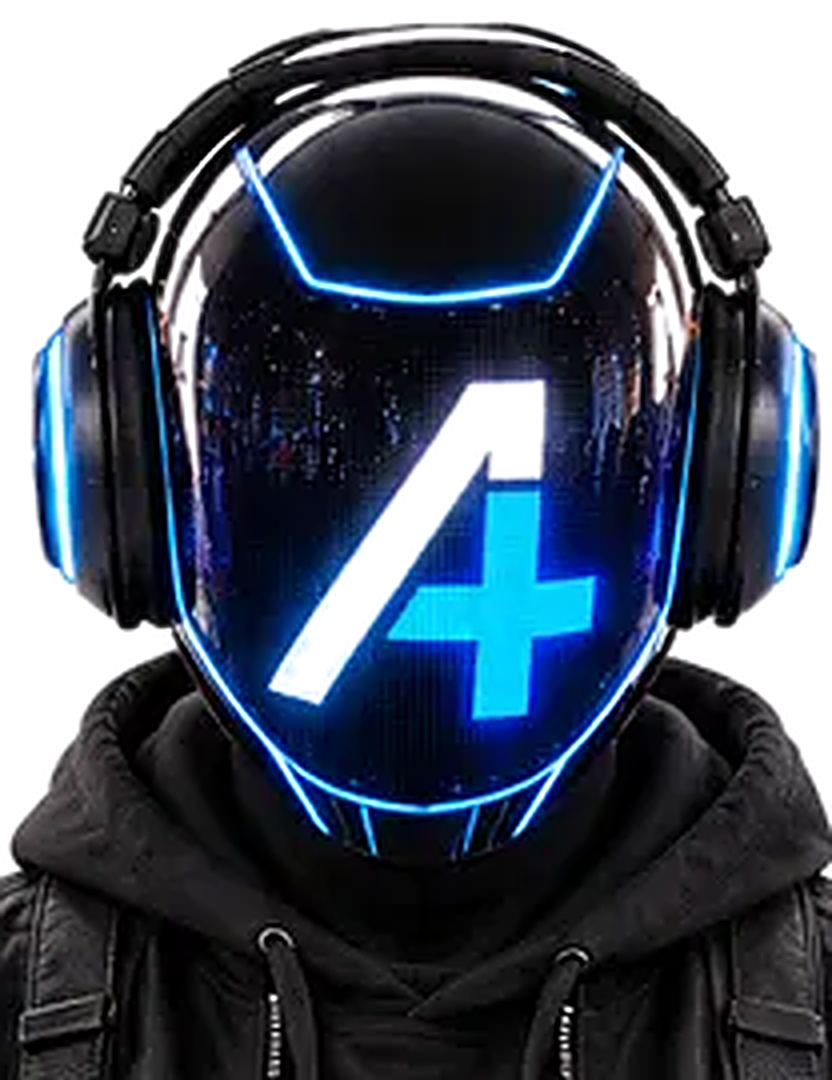
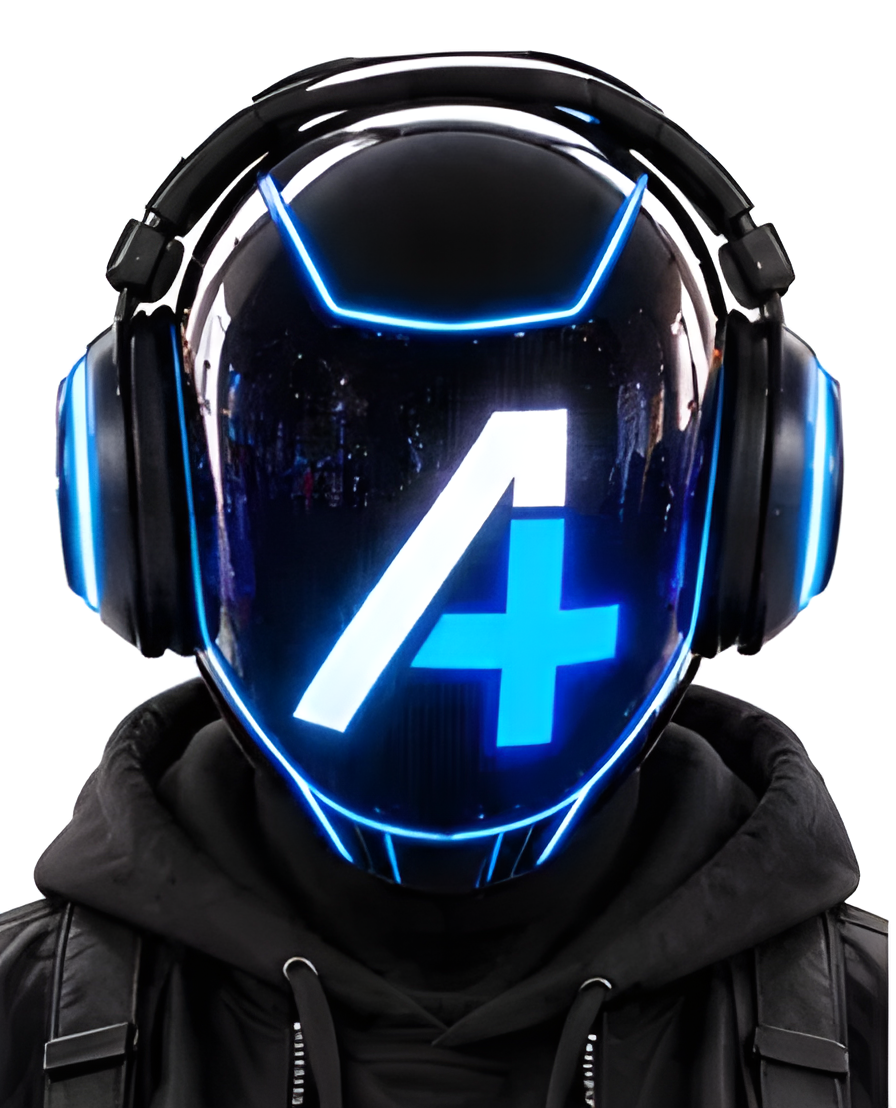
DJ images: Real-ESRGAN x4 from the character sheet, clean key
- stand.png 912x2480 and helmet-close.png 896x1108, upscaled with Real-ESRGAN x4
  from the original character sheet and keyed off white with a border flood
  fill (keeps the white A on the visor); replaces the soft resampled versions
- Helmet/DJIntro geometry re-measured for the new images
- scripts/upscale_esrgan.py, scripts/key_white.py

Claude-Session: https://claude.ai/code/session_01VV7kMJmQZ3Jv3yXKik9UDD

diff --git a/music-video/src/components/DJIntro.tsx b/music-video/src/components/DJIntro.tsx
@@ -19,10 +19,10 @@ const T_IN = 21.9;
 const T_SWAP = 27.7; // stand → helmet dissolve
 const DROP = 29.93;
 
-// stand.png is 630×1800; the visor sits at (315, 150)
-const SW = 630,
-  SH = 1800,
-  HEAD = { x: 315, y: 150 };
+// stand.png is 912×2480 (Real-ESRGAN ×4 of the character sheet); the visor sits at (456, 250)
+const SW = 912,
+  SH = 2480,
+  HEAD = { x: 456, y: 250 };
 
 // A+ mark (brand vector, units)
 const MARK_W = 37.505,
@@ -155,10 +155,9 @@ export const DJIntro: React.FC<{ abs: number }> = ({ abs }) => {
   const helmetOp = ramp(abs, fr(T_SWAP - 0.1), 14, cubicInOut) * (1 - ramp(abs, fr(END) - 8, 8));
   const chop = t >= DROP - 0.05 ? chopPulse(t) : 0;
   const eqLevel = mix(0.35, 1, dropK) * (dropK < 1 ? 0.3 + 0.7 * pre : 1);
-  // lay the EQ exactly over the A+ printed on the visor (measured bbox 268–594 × 352–718 image px;
-  // the visor's curve stretches it vertically)
-  const msx = (594 - 268) / MARK_W,
-    msy = (718 - 352) / MARK_H;
+  // lay the EQ exactly over the A+ printed on the visor (measured bbox 292–619 × 409–744 image px)
+  const msx = (619 - 292) / MARK_W,
+    msy = (744 - 409) / MARK_H;
 
   const fadeIn = ramp(abs, fr(T_IN), 10);
 
@@ -177,10 +176,10 @@ export const DJIntro: React.FC<{ abs: number }> = ({ abs }) => {
       {standOp > 0 && (
         <AbsoluteFill style={{ opacity: standOp, filter: `blur(${ramp(abs, fr(T_SWAP), 16) * 8}px)` }}>
           {/* the line passes behind him at the waist */}
-          <div style={{ position: "absolute", left: 0, top: cy + (880 - HEAD.y) * S, width: 1920, height: Math.max(3, 4 * z * 0.6), background: C.blue,
+          <div style={{ position: "absolute", left: 0, top: cy + (SH * 0.49 - HEAD.y) * S, width: 1920, height: Math.max(3, 4 * z * 0.6), background: C.blue,
             transform: `scaleX(${ramp(abs, fr(T_IN + 0.5), 50, expoOut)})`, boxShadow: `0 0 ${18 + 30 * kick}px rgba(${C.blueRGB},0.9)` }} />
           {/* floor glow */}
-          <div style={{ position: "absolute", left: cx - 520 * z, top: cy + (1790 - HEAD.y) * S - 30 * z, width: 1040 * z, height: 60 * z, borderRadius: "50%",
+          <div style={{ position: "absolute", left: cx - 520 * z, top: cy + (SH * 0.985 - HEAD.y) * S - 30 * z, width: 1040 * z, height: 60 * z, borderRadius: "50%",
             background: `radial-gradient(closest-side, rgba(${C.blueRGB},${0.35 * rim}), transparent)` }} />
           <Img src={staticFile("images/dj/stand.png")} style={{ position: "absolute", left: cx - HEAD.x * S, top: cy - HEAD.y * S, width: SW * S, height: SH * S,
             filter: `brightness(${mix(0.08, 0.95, lit)}) contrast(1.05) drop-shadow(0 0 ${6 + 10 * rim}px rgba(${C.blueRGB},${0.55 * rim}))` }} />
@@ -201,7 +200,7 @@ export const DJIntro: React.FC<{ abs: number }> = ({ abs }) => {
             WebkitMaskComposite: "source-in" }}>
             <Helmet abs={abs} height={Hh} ids={[]} lights={mix(0.6, 1, pre)} dim={0.9} groove={dropK}
               overlay={
-                <g transform={`translate(268 352) scale(${msx} ${msy})`} opacity={0.35 + 0.65 * pre}>
+                <g transform={`translate(292 409) scale(${msx} ${msy})`} opacity={0.35 + 0.65 * pre}>
                   <MarkEQ abs={abs} level={eqLevel} fill={chop * 0.95 + exitK} />
                 </g>
               } />

diff --git a/music-video/src/components/Helmet.tsx b/music-video/src/components/Helmet.tsx
@@ -5,10 +5,10 @@ import { clamp01, cubicOut } from "../utils/ease";
 import { scene } from "../utils/scenes";
 import { beatIndex, beatPulse, BEATS, FPS, lyric } from "../utils/time";
 
-/** helmet-close.png is 832×1080; visor glass centred here (image px). */
-const IW = 832,
-  IH = 1080;
-const VISOR = { cx: 430, cy: 548, rx: 238, ry: 262 };
+/** helmet-close.png is 896×1108 (Real-ESRGAN ×4 of the character sheet); visor glass centred here (image px). */
+const IW = 896,
+  IH = 1108;
+const VISOR = { cx: 455, cy: 588, rx: 240, ry: 272 };
 const TEXT_W = 380,
   TEXT_H = 360;
 
@@ -25,7 +25,7 @@ export const Helmet: React.FC<{
   lights?: number;
   /** extra visor dimming 0..1 (to let an overlay own the glass) */
   dim?: number;
-  /** drawn over the visor glass, in image pixels (832×1080) */
+  /** drawn over the visor glass, in image pixels (896×1108) */
   overlay?: React.ReactNode;
   groove?: number;
 }> = ({ abs, height, ids, lights = 1, dim = 0, overlay, groove = 1 }) => {

diff --git a/music-video/scripts/key_white.py b/music-video/scripts/key_white.py
@@ -1,0 +1,27 @@
+# Keys the white studio background off a character-sheet crop (flood fill from the border,
+# so white parts inside the subject, like the visor A, survive). Usage: python key_white.py in.png out.png
+import sys, numpy as np
+from PIL import Image, ImageDraw, ImageFilter
+src, dst = sys.argv[1], sys.argv[2]
+im = np.asarray(Image.open(src).convert("RGB")).astype(np.float32)
+mn = im.min(axis=2)
+H, W = mn.shape
+# background = white region connected to the image border (so the white A on the visor survives)
+bin_ = Image.fromarray(np.where(mn > 215, 255, 0).astype(np.uint8)).copy()
+for x in range(0, W, 4):
+    for y in (0, H - 1):
+        if bin_.getpixel((x, y)) == 255:
+            ImageDraw.floodfill(bin_, (x, y), 128)
+for y in range(0, H, 4):
+    for x in (0, W - 1):
+        if bin_.getpixel((x, y)) == 255:
+            ImageDraw.floodfill(bin_, (x, y), 128)
+bg = np.asarray(bin_) == 128
+bgd = np.asarray(Image.fromarray((bg * 255).astype(np.uint8)).filter(ImageFilter.MaxFilter(5))) > 0  # bg + 2px rim
+a = np.where(bgd, np.clip((250.0 - mn) / 38.0, 0, 1), 1.0)
+a[bg & (mn > 240)] = 0
+A = Image.fromarray((a * 255).astype(np.uint8)).filter(ImageFilter.GaussianBlur(0.7))
+a = np.asarray(A).astype(np.float32) / 255
+c = np.clip((im - (1 - a[..., None]) * 255) / np.maximum(a[..., None], 1e-3), 0, 255)
+Image.fromarray(np.dstack([c, a * 255]).astype(np.uint8), "RGBA").save(dst, optimize=True)
+print(dst, W, H)

diff --git a/music-video/scripts/upscale_esrgan.py b/music-video/scripts/upscale_esrgan.py
@@ -1,0 +1,29 @@
+# Real-ESRGAN x4 (NCNN build, CPU) upscaler used for the DJ images.
+# Needs: pip install ncnn numpy pillow; models from the realesrgan-ncnn-vulkan release zip (models/realesrgan-x4plus.*).
+# Usage: python upscale_esrgan.py in.png out.png
+import sys, time, numpy as np, ncnn
+from PIL import Image
+net = ncnn.Net()
+net.opt.use_vulkan_compute = False
+net.opt.num_threads = 4
+net.load_param("models/realesrgan-x4plus.param"); net.load_model("models/realesrgan-x4plus.bin")
+src, dst = sys.argv[1], sys.argv[2]
+im = np.asarray(Image.open(src).convert("RGB")).astype(np.float32) / 255.0
+H, W, _ = im.shape
+T, P = 128, 12
+out = np.zeros((H * 4, W * 4, 3), np.float32)
+t0 = time.time()
+for y in range(0, H, T):
+    for x in range(0, W, T):
+        y0, x0 = max(0, y - P), max(0, x - P)
+        y1, x1 = min(H, y + T + P), min(W, x + T + P)
+        tile = np.ascontiguousarray(im[y0:y1, x0:x1].transpose(2, 0, 1))
+        ex = net.create_extractor()
+        ex.input("data", ncnn.Mat(tile))
+        _, o = ex.extract("output")
+        o = np.array(o).transpose(1, 2, 0)
+        oy, ox = (y - y0) * 4, (x - x0) * 4
+        h, w = (min(y + T, H) - y) * 4, (min(x + T, W) - x) * 4
+        out[y * 4:y * 4 + h, x * 4:x * 4 + w] = o[oy:oy + h, ox:ox + w]
+Image.fromarray((np.clip(out, 0, 1) * 255 + 0.5).astype(np.uint8)).save(dst)
+print(dst, out.shape, round(time.time() - t0, 1), "s")
